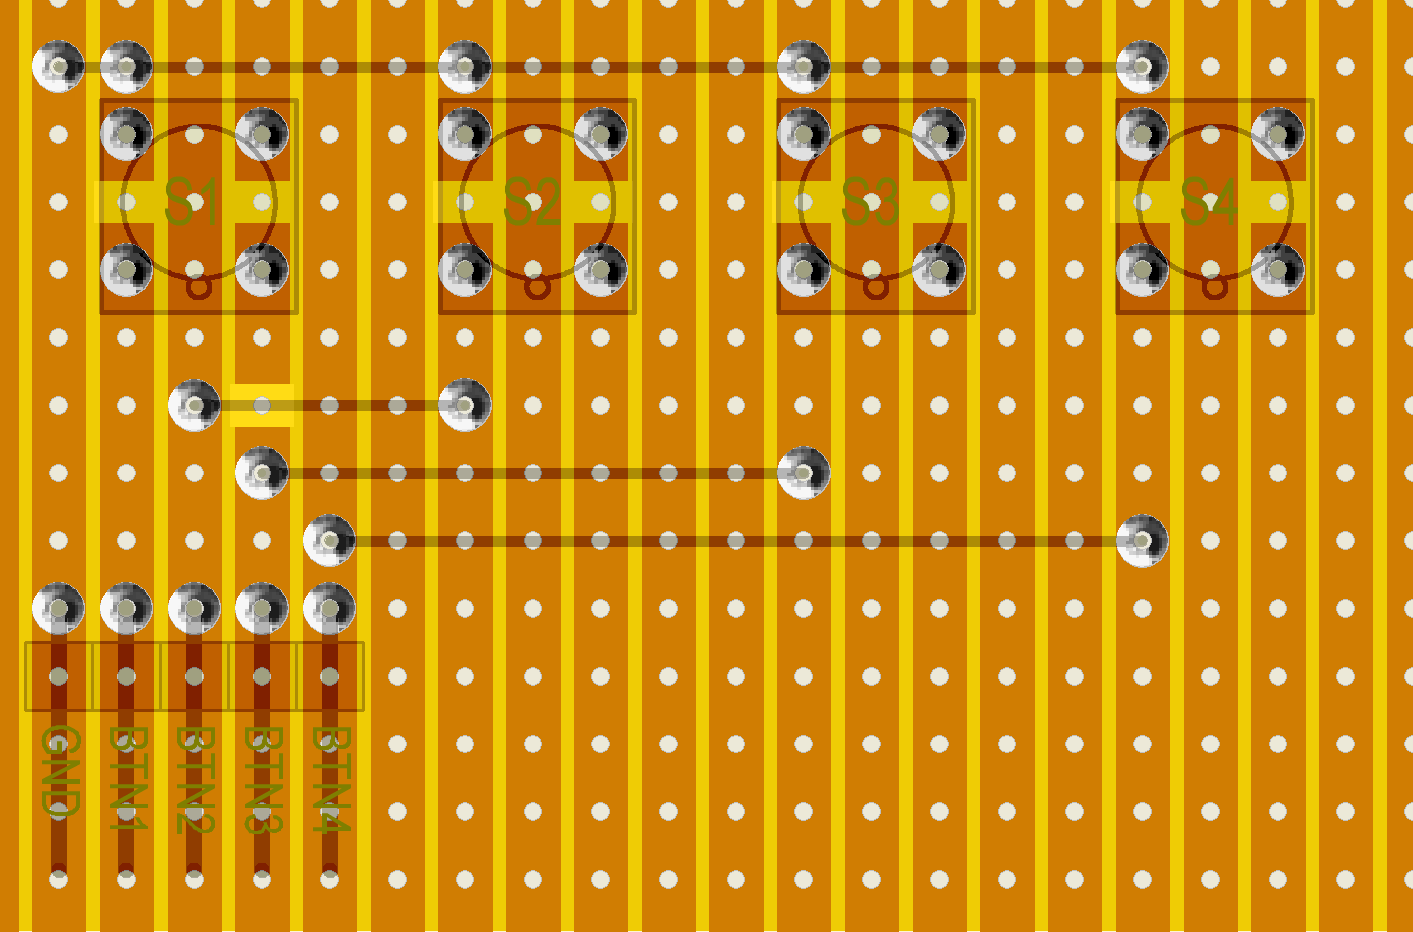
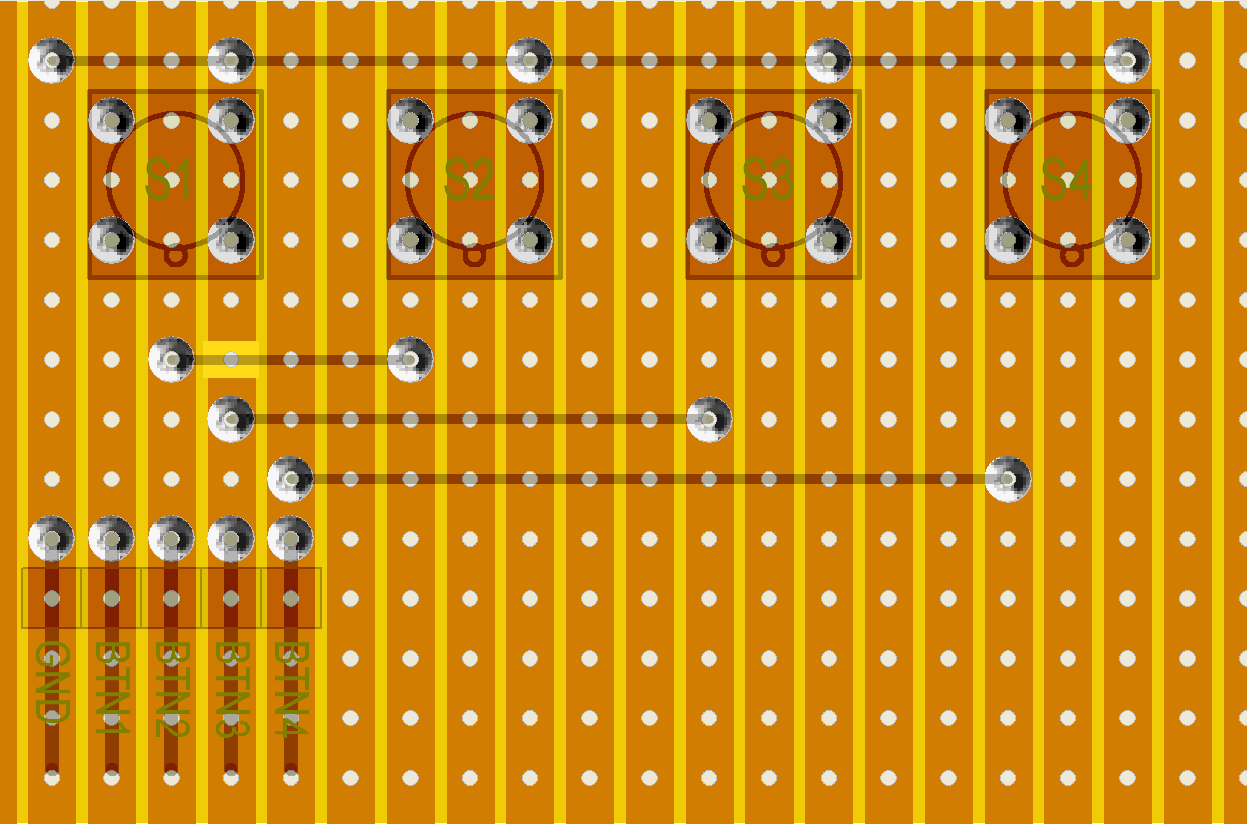
Rework of the LCD drivers to allow for support for various other I2C based displays Fix for button board layout

diff --git a/dsip_lcd.c b/dsip_lcd.c
@@ -6,12 +6,59 @@
 //Compatible with the Arduino IDE 1.0
 //Library version:1.1
 
+
+#include "config.h"
+#ifdef LCD_USE_1602_LCD_MODULE
+
+#include "lcd_interface.h"
+
 #include <util/delay.h>
 #include <avr/pgmspace.h>
 
-#include "config.h"
 #include "i2cmaster.h"
-#include "lcd.h"
+
+// commands
+#define LCD_CLEARDISPLAY 0x01
+#define LCD_RETURNHOME 0x02
+#define LCD_ENTRYMODESET 0x04
+#define LCD_DISPLAYCONTROL 0x08
+#define LCD_CURSORSHIFT 0x10
+#define LCD_FUNCTIONSET 0x20
+#define LCD_SETCGRAMADDR 0x40
+#define LCD_SETDDRAMADDR 0x80
+
+// flags for display entry mode
+#define LCD_ENTRYRIGHT 0x00
+#define LCD_ENTRYLEFT 0x02
+#define LCD_ENTRYSHIFTINCREMENT 0x01
+#define LCD_ENTRYSHIFTDECREMENT 0x00
+
+// flags for display on/off control
+#define LCD_DISPLAYON 0x04
+#define LCD_DISPLAYOFF 0x00
+#define LCD_CURSORON 0x02
+#define LCD_CURSOROFF 0x00
+#define LCD_BLINKON 0x01
+#define LCD_BLINKOFF 0x00
+
+// flags for display/cursor shift
+#define LCD_DISPLAYMOVE 0x08
+#define LCD_CURSORMOVE 0x00
+#define LCD_MOVERIGHT 0x04
+#define LCD_MOVELEFT 0x00
+
+// flags for backlight control
+#define LCD_BACKLIGHT     _BV(LCD_BIT_BACKLIGHT)
+#define LCD_NOBACKLIGHT   0x00
+
+// flags for function set
+#define LCD_8BITMODE 0x10
+#define LCD_4BITMODE 0x00
+#define LCD_2LINE 0x08
+#define LCD_1LINE 0x00
+#define LCD_5x10DOTS 0x04
+#define LCD_5x8DOTS 0x00
+
 
 // When the display powers up, it is configured as follows:
 //
@@ -41,7 +88,6 @@ uint8_t _cols;
 uint8_t _rows;
 uint8_t _backlightval;
 
-  
 void send(uint8_t value, uint8_t mode);
 void write4bits(uint8_t value, uint8_t mode);
 void expanderWrite(uint8_t _data);
@@ -51,10 +97,14 @@ void lcd_write(uint8_t value) {
 	send(value, _BV(LCD_BIT_RS));
 }
 
-/*********** mid level commands, for sending data/cmds */
+// mid level commands, for sending data/cmds 
 
 void command(uint8_t value) {
 	send(value, 0);
+}
+
+void lcd_init(uint8_t lcd_addr) {
+  lcd_begin(lcd_addr, MAX_LCD_LINE_LEN, LCD_NUM_LINES, LCD_5x8DOTS);
 }
 
 void lcd_begin(uint8_t lcd_addr, uint8_t cols, uint8_t lines, uint8_t dotsize) {
@@ -104,7 +154,6 @@ void lcd_begin(uint8_t lcd_addr, uint8_t cols, uint8_t lines, uint8_t dotsize) {
    // finally, set to 4-bit interface
    write4bits(0x02, 0); 
 
-
 	// set # lines, font size, etc.
 	command(LCD_FUNCTIONSET | _displayfunction);  
 	
@@ -125,7 +174,7 @@ void lcd_begin(uint8_t lcd_addr, uint8_t cols, uint8_t lines, uint8_t dotsize) {
 
 }
 
-/********** high level commands, for the user! */
+// high level commands, for the user!
 void lcd_clear(){
 	command(LCD_CLEARDISPLAY);// clear display, set cursor position to zero
 	_delay_us(2000);  // this command takes a long time!
@@ -164,48 +213,6 @@ void lcd_cursor() {
 	command(LCD_DISPLAYCONTROL | _displaycontrol);
 }
 
-// Turn on and off the blinking cursor
-void lcd_noBlink() {
-	_displaycontrol &= ~LCD_BLINKON;
-	command(LCD_DISPLAYCONTROL | _displaycontrol);
-}
-void lcd_blink() {
-	_displaycontrol |= LCD_BLINKON;
-	command(LCD_DISPLAYCONTROL | _displaycontrol);
-}
-
-// These commands scroll the display without changing the RAM
-void lcd_scrollDisplayLeft(void) {
-	command(LCD_CURSORSHIFT | LCD_DISPLAYMOVE | LCD_MOVELEFT);
-}
-void lcd_scrollDisplayRight(void) {
-	command(LCD_CURSORSHIFT | LCD_DISPLAYMOVE | LCD_MOVERIGHT);
-}
-
-// This is for text that flows Left to Right
-void lcd_leftToRight(void) {
-	_displaymode |= LCD_ENTRYLEFT;
-	command(LCD_ENTRYMODESET | _displaymode);
-}
-
-// This is for text that flows Right to Left
-void lcd_rightToLeft(void) {
-	_displaymode &= ~LCD_ENTRYLEFT;
-	command(LCD_ENTRYMODESET | _displaymode);
-}
-
-// This will 'right justify' text from the cursor
-void lcd_autoscroll(void) {
-	_displaymode |= LCD_ENTRYSHIFTINCREMENT;
-	command(LCD_ENTRYMODESET | _displaymode);
-}
-
-// This will 'left justify' text from the cursor
-void lcd_noAutoscroll(void) {
-	_displaymode &= ~LCD_ENTRYSHIFTINCREMENT;
-	command(LCD_ENTRYMODESET | _displaymode);
-}
-
 // Allows us to fill the first 8 CGRAM locations
 // with custom characters
 void lcd_createChar(uint8_t location, uint8_t charmap[]) {
@@ -235,14 +242,7 @@ void lcd_print(char* msg) {
   }
 }
 
-void lcd_print_P(const char *msg) {
-    uint8_t v;
-    while ((v = pgm_read_byte(msg++))) {
-        lcd_write(v);
-    }
-}
-
-/************ low level data pushing commands **********/
+// low level data pushing commands
 
 // write either command or data
 void send(uint8_t value, uint8_t mode) {
@@ -277,3 +277,5 @@ void pulseEnable(uint8_t _data){
 	expanderWrite(_data & ~_BV(LCD_BIT_EN));	// En low
 	_delay_us(50);		// commands need > 37us to settle
 } 
+
+#endif

diff --git a/lcdutils.c b/lcdutils.c
@@ -6,7 +6,7 @@
 #include "tapuino.h"
 #include "ff.h"
 #include "config.h"
-#include "lcd.h"
+#include "lcd_interface.h"
 #include "lcdutils.h"
 #include "memstrings.h"
 
@@ -155,7 +155,7 @@ void lcd_status_P(const char* msg) {
 }
 
 void lcd_setup() {
-  lcd_begin(LCD_I2C_ADDR, MAX_LCD_LINE_LEN, LCD_NUM_LINES, LCD_5x8DOTS);
+  lcd_init(LCD_I2C_ADDR);
   lcd_backlight();
   // can't define this as the zeroth character as zero is null in strings :)! :)
   lcd_createChar(1, backslashChar);

diff --git a/config.h b/config.h
@@ -4,7 +4,13 @@
 
 // LCD Definitions
 // I2C config and expander data lines
-#define LCD_I2C_ADDR        0x27 // I2C address for the LCD 
+//#define LCD_USE_1602_LCD_MODULE
+//#define LCD_I2C_ADDR        0x27 // I2C address for the LCD 
+
+#define LCD_USE_SD131X_OLED_MODULE
+#define LCD_I2C_ADDR        0x3C // I2C address for the OLED 
+
+
 #define LCD_BIT_RS          0    // Register select
 #define LCD_BIT_RW          1    // Read / Write 
 #define LCD_BIT_EN          2    // Enable

diff --git a/lcd_interface.h b/lcd_interface.h
@@ -1,0 +1,16 @@
+#ifndef LCD_INTERFACE_H
+#define LCD_INTERFACE_H
+
+#include <inttypes.h>
+
+void lcd_init(uint8_t lcd_addr);
+void lcd_cursor();
+void lcd_noCursor();
+void lcd_backlight();
+void lcd_noBacklight();
+void lcd_createChar(uint8_t location, uint8_t charmap[]);
+void lcd_setCursor(uint8_t col, uint8_t row); 
+void lcd_print(char* msg);
+void lcd_write(uint8_t value);
+
+#endif

diff --git a/tapuino.c b/tapuino.c
@@ -16,7 +16,7 @@
 #include "diskio.h"
 #include "serial.h"
 #include "comms.h"
-#include "lcd.h"
+#include "lcd_interface.h"
 #include "lcdutils.h"
 #include "memstrings.h"
 #include "fileutils.h"

diff --git a/menu.c b/menu.c
@@ -8,7 +8,7 @@
 #include "memstrings.h"
 #include "fileutils.h"
 #include "tapuino.h"
-#include "lcd.h"
+#include "lcd_interface.h"
 #include "lcdutils.h"
 
 #define MODE_PLAY         0
